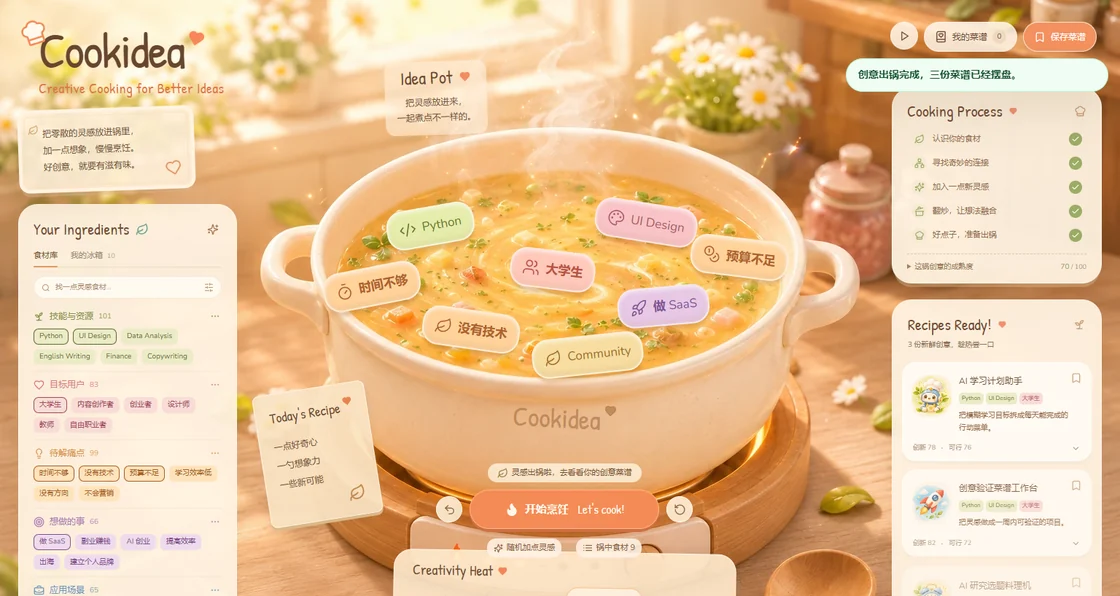
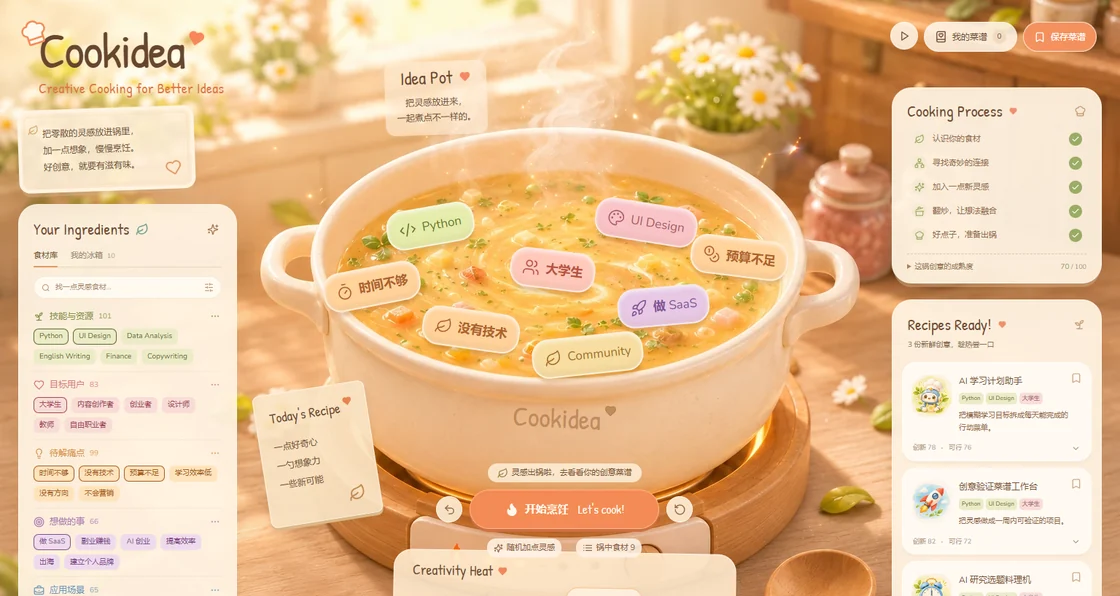
Show eight new or updated projects in the Singularity gallery

Changed region(s): [[0.75, 0.0906, 1.0, 0.1812], [0.8125, 0.7852, 0.9375, 0.906], [0.8125, 0.9664, 0.9375, 1.0]]

diff --git a/content.js b/content.js
@@ -43,7 +43,13 @@ export const projects = [
   {id:'books',title:'猪的读书角',type:'视觉交互',year:'2026',number:'02',image:'assets/books-preview.jpg',description:'51 本书，51 个可以走进去的世界。可抽取、可翻阅的立体书架。',preview:'books',tag:'3D / READING'},
   {id:'orbit',title:'Orbit · 星际漫游',type:'视觉交互',year:'2026',number:'03',image:'assets/projects/orbit.jpg',description:'将影像环绕成一颗可以触及的星球，用拖动与镜头推进探索空间。',preview:'orbit',tag:'EXPERIMENT / SPACE'},
   {id:'ronin',title:'浪人X',type:'视觉交互',year:'2026',number:'04',image:'assets/projects/roninx.jpg',description:'机械、留白与聚光。藏在光线后面的另一种面貌。',preview:'ronin',tag:'EXPERIMENT / MOTION'},
-  {id:'lingyu',title:'Lingyu · 领屿',type:'产品设计',year:'持续迭代',number:'05',image:'',description:'独立设计与开发的学生成长平台。双语界面、内容管理、权限与响应式体验。',url:'https://github.com/ThreshoLdnnis/Qsinghua-TencentSmaker',tag:'PRODUCT / EDUCATION'},
-  {id:'cook',title:'CookIdea',type:'产品设计',year:'持续迭代',number:'06',image:'',description:'以料理为灵感的创意工作台，把模糊的想法一步步整理成可以实现的原型。',url:'https://github.com/ThreshoLdnnis/Cook-Idea',tag:'PRODUCT / CREATIVITY'}
+  {id:'spider',title:'成为蛛蛛',type:'视觉交互',year:'2026',number:'05',image:'assets/projects/spider.webp',description:'让跳蛛追着光标探路，织起蛛丝，在三种织物主题里翻看收藏。',preview:'spider',tag:'INTERACTIVE / PLAY'},
+  {id:'rider',title:'铠甲变身',type:'视觉交互',year:'2026',number:'06',image:'assets/projects/rider.webp',description:'滑过人物轮廓，以撕裂光效从半身像切换到骑手铠甲。',preview:'rider',tag:'INTERACTIVE / REVEAL'},
+  {id:'page-to-code',title:'万物溯源',type:'视觉交互',year:'2026',number:'07',image:'assets/projects/page-to-code.webp',description:'双向拖动传送带，看迷你网页穿过扫描线，在画面与 HTML 之间转换。',preview:'page-to-code',tag:'INTERACTIVE / CODE'},
+  {id:'zfy01',title:'机械Y',type:'视觉交互',year:'2026',number:'08',image:'assets/projects/zfy01.webp',description:'在冷灰色机甲之间移动光斑，揭开另一层机械造型。',preview:'zfy01',tag:'INTERACTIVE / LIGHT'},
+  {id:'meowstar',title:'喵喵派对',type:'视觉交互',year:'2026',number:'09',image:'assets/projects/meowstar.webp',description:'翻看猫咪卡片，打开每只猫的独立档案。',preview:'meowstar',tag:'INTERACTIVE / EDITORIAL'},
+  {id:'artist',title:'模特视觉',type:'视觉交互',year:'2026',number:'10',image:'assets/projects/artist.webp',description:'用滚动驱动影像序列，翻看人物肖像与模特卡片。',preview:'artist',tag:'INTERACTIVE / FASHION'},
+  {id:'lingyu',title:'Lingo资源聚合平台',type:'产品设计',year:'持续迭代',number:'11',image:'assets/projects/lingo.webp',description:'集中浏览赛事活动、学习资源、实践项目和组队机会。',site:'https://www.lingozm.cn/',tag:'PRODUCT / EDUCATION'},
+  {id:'cook',title:'CookIdea',type:'产品设计',year:'持续迭代',number:'12',image:'assets/projects/cook.webp',description:'把食材拖进锅里，调节火力，再根据手边食材生成食谱。',preview:'cook',tag:'PRODUCT / COOKING'}
 ];
 

diff --git a/app.js b/app.js
@@ -37,16 +37,19 @@ function renderWorks() {
   const list = projects.filter(project => workFilter === '全部' || project.type === workFilter);
   $('#works-grid').innerHTML = list.length ? list.map(project => {
     const {id, title, year, number, image, description, preview, tag} = project;
-    const action = preview ? '预览作品' : '查看作品';
+    const site = safeURL(project.site);
     const cover = image
       ? `<img src="${esc(image)}" alt="" loading="lazy" decoding="async">`
-      : `<span class="wordmark-cover ${id === 'cook' ? 'cook' : ''}">${id === 'cook' ? 'CookIdea.' : 'LINGYU.'}</span>`;
+      : `<span class="wordmark-cover">${esc(title)}</span>`;
+    const visual = `
+      <span class="work-number">${esc(number)} / ${esc(year)}</span>
+      ${cover}
+      <span class="work-arrow" aria-hidden="true">↗</span>`;
+    const action = site
+      ? `<a class="work-visual" href="${esc(site)}" target="_blank" rel="noopener noreferrer" aria-label="打开官网：${esc(title)}">${visual}</a>`
+      : `<button type="button" class="work-visual" data-project="${esc(id)}" aria-label="${preview ? '预览作品' : '查看作品'}：${esc(title)}" aria-haspopup="dialog">${visual}</button>`;
     return `<article class="work-card">
-      <button class="work-visual" data-project="${esc(id)}" aria-label="${action}：${esc(title)}" ${preview ? 'aria-haspopup="dialog"' : ''}>
-        <span class="work-number">${esc(number)} / ${esc(year)}</span>
-        ${cover}
-        <span class="work-arrow" aria-hidden="true">↗</span>
-      </button>
+      ${action}
       <div class="work-info"><h3>${esc(title)}</h3><span>${esc(tag)}</span></div>
       <p>${esc(description)}</p>
     </article>`;

diff --git a/page-navigation.js b/page-navigation.js
@@ -14,7 +14,8 @@ export const pages = [
 ];
 
 export function mountModuleFrame(shell, {module, title, subtitle, loadingText, preview = false}) {
-  const source = `modules/${module}.html${preview ? '?preview=1' : ''}`;
+  const path = module === 'spider' ? 'welcome/index.html' : `modules/${module}.html`;
+  const source = preview ? `${path}?preview=1` : path;
   const frame = document.createElement('iframe');
   frame.title = title;
   frame.allow = 'fullscreen; autoplay';

diff --git a/README.md b/README.md
@@ -28,7 +28,7 @@ npm run dev
 | --- | --- |
 | 开场与个人信息 | MovingSpider 互动欢迎页，点击 Welcome 下方「进入网站」后进入，不设倒数或自动跳过；页脚可重播；姓名大字支持鼠标或手指划过时粒子消散、离开后回聚；首屏显示本人照片，鼠标划过会沿轨迹撕开粉色骑手造型，约 1.1 秒后收拢；触屏支持滑动并保留轻柔自动演示，按钮可切换完整造型；目录中可编辑个人资料。 |
 | 生活时间轴 | 按生活、学习、工作、创业筛选；在内容管理中新增、修改或移除记录。 |
-| 奇点 | 按产品设计、视觉交互、策略模型筛选。点击音乐光盘、猪的读书角、Orbit · 星际漫游或浪人X 的封面可打开站内互动预览，关闭后回到原筛选位置。 |
+| 奇点 | 按产品设计、视觉交互、策略模型筛选。点击视觉交互作品或 CookIdea 的封面可打开站内互动预览，关闭后回到原筛选位置。Lingo资源聚合平台的封面直达官网。 |
 | 旅行足迹 | 进入「猪的世界足迹」，探索世界地图、地点及代表性风景。未填写的日期和个人游记保留为空。 |
 | 音乐墙 | 旋转与切换 3D 唱片、阅读歌词、编辑歌曲资料，并为歌曲添加自己的播放来源。 |
 | 读书角 | 从立体书架抽取书籍，查看介绍、筛选分类、修改书单和阅读状态。初始书架为 51 本书、42 本已读。 |
